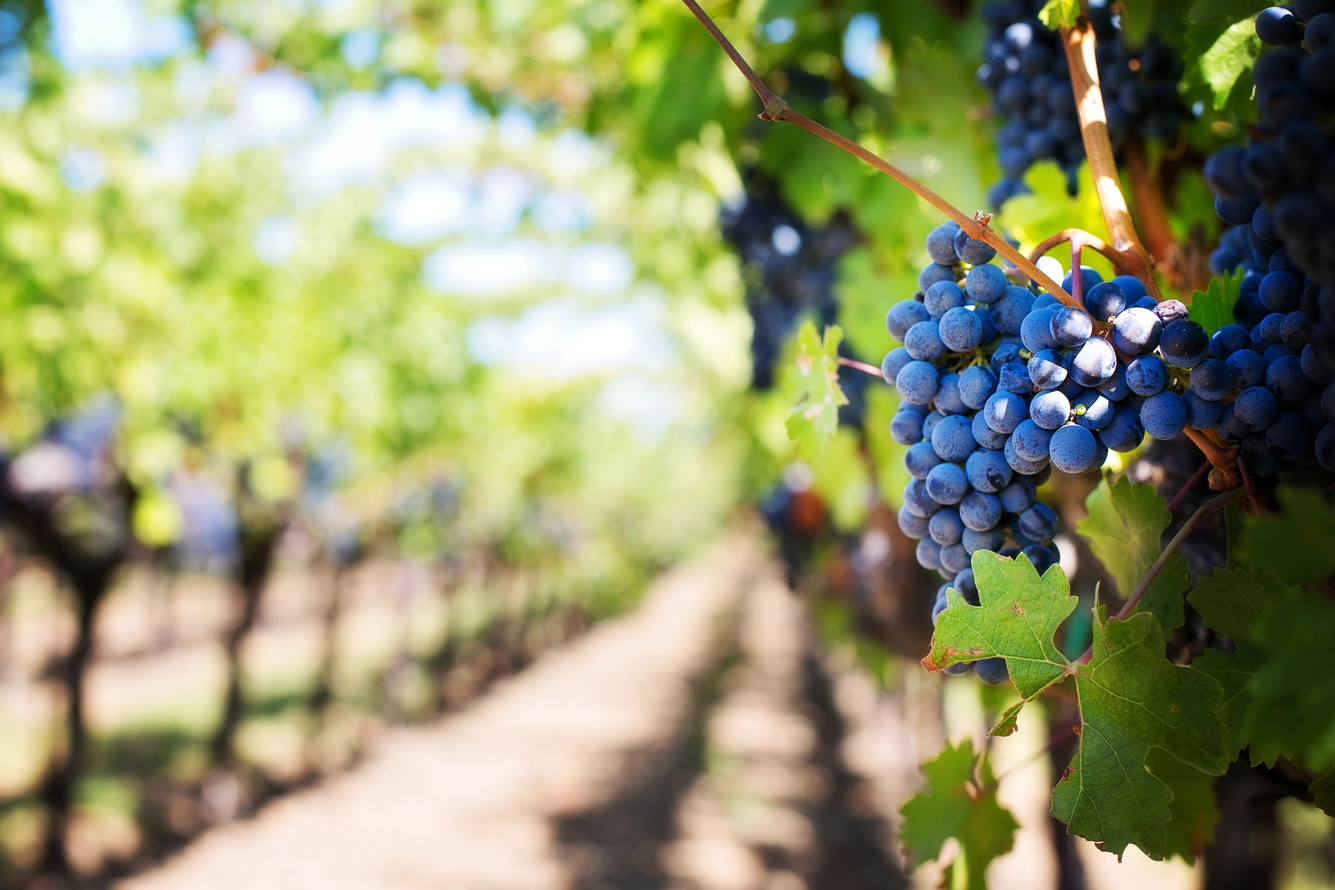
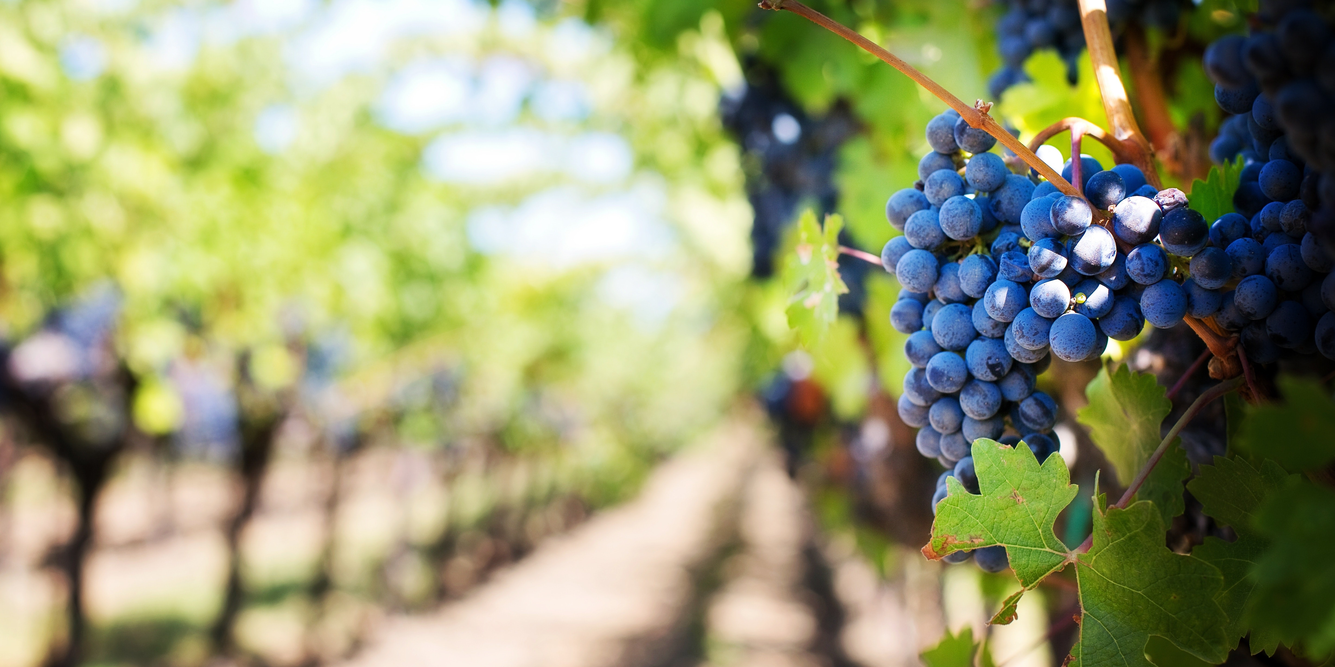
Home page content and some styling

diff --git a/index.html b/index.html
@@ -47,7 +47,7 @@
     <main class="container-fluid">
         <section id="hero-outer">
             <div class="hero-image">
-                <img id="hero-image" src="assets/images/arty_red_grape.jpg">
+                <img id="hero-image" src="assets/images/vines_and_views.jpg">
                 <div id="cover-text">
                     <h2>Welcome to Rupera Vineyard</h2>
                     <h3>Home of Wales' award-winning wines</h3>
@@ -61,11 +61,151 @@
                 </div>
             </div>
         </section>
-        <section id="section-2">
-            </div>This section will show options of what to do at Rupera Vineyard.
+        <section id="things-to-enjoy">
+            <h3> Things to Enjoy</h3>
+            <div id="things-to-enjoy-carousel" class="carousel slide" data-ride="carousel">
+                <div class="carousel-inner">
+                    <div class="carousel-item active">
+                        <img src="assets/images/walk_the_vines.jpg" class="d-block w-100"
+                            alt="woman walking through vines">
+                        <div class="carousel-caption d-none d-md-block">
+                            <h5>Walk through the vines</h5>
+                            <p>Some representative placeholder content for the first slide.</p>
+                        </div>
+                    </div>
+                    <div class="carousel-item">
+                        <img src="assets/images/wine_tasting1.jpg" class="d-block w-100" alt="wine tasting">
+                        <div class="carousel-caption d-none d-md-block">
+                            <h5>Taste our wines</h5>
+                            <p>Some representative placeholder content for the second slide.</p>
+                        </div>
+                    </div>
+                    <div class="carousel-item">
+                        <img src="assets/images/working_in_cafe.jpg" class="d-block w-100"
+                            alt="people working in a cafe">
+                        <div class="carousel-caption d-none d-md-block">
+                            <h5>A beautiful environment to work</h5>
+                            <p>Some representative placeholder content for the third slide.</p>
+                        </div>
+                    </div>
+                    <div class="carousel-item">
+                        <img src="assets/images/menu_and_food.jpg" class="d-block w-100" alt="menu and food">
+                        <div class="carousel-caption d-none d-md-block">
+                            <h5>Join us for lunch</h5>
+                            <p>Some representative placeholder content for the third slide.</p>
+                        </div>
+                    </div>
+                    <div class="carousel-item">
+                        <img src="assets/images/coffee.jpg" class="d-block w-100" alt="coffee">
+                        <div class="carousel-caption d-none d-md-block">
+                            <h5>Relax with a coffee</h5>
+                            <p>Some representative placeholder content for the third slide.</p>
+                        </div>
+                    </div>
+                    <div class="carousel-item">
+                        <img src="assets/images/wildflower_butterfly.jpg" class="d-block w-100"
+                            alt="wildflowers and butterfly">
+                        <div class="carousel-caption d-none d-md-block">
+                            <h5>Explore our magical meadows</h5>
+                            <p>Some representative placeholder content for the third slide.</p>
+                        </div>
+                    </div>
+                    <div class="carousel-item">
+                        <img src="assets/images/sing_song.jpg" class="d-block w-100" alt="group singing">
+                        <div class="carousel-caption d-none d-md-block">
+                            <h5>Enjoy our evening events</h5>
+                            <p>Some representative placeholder content for the third slide.</p>
+                        </div>
+                    </div>
+                </div>
+                <button class="carousel-control-prev left" type="button" data-bs-target="things-to-enjoy-carousel"
+                    data-bs-slide="prev">
+                    <span class="carousel-control-prev-icon" aria-hidden="true"></span>
+                    <span class="visually-hidden">Previous</span>
+                </button>
+                <button class="carousel-control-next right" type="button" data-bs-target="things-to-enjoy-carousel"
+                    data-bs-slide="next">
+                    <span class="carousel-control-next-icon" aria-hidden="true"></span>
+                    <span class="visually-hidden">Next</span>
+                </button>
+            </div>
+            <div id="things-to-enjoy-p">
+                <p>
+                    There are plenty of reasons to visit us at Rupera Vineyard.
+                    <br>
+                    Whether you fancy a <strong>scenic stroll</strong> through our vines and
+                    meadows, a <strong>delicious lunch </strong>that hits the spot (in a beautiful spot),
+                    or a <strong>tour and taste</strong> of our wines to learn about the fastest growing
+                    agricultural industry in the UK, we'll make sure you get everything you hoped from your visit, and
+                    more.
+                </p>
+                <p> If you'd like to book a table, a tour or for one of our events, please get in touch!</p>
+                <button type="button" class="btn btn-outline-warning nav-menu-item">Contact Us</button>
+            </div>
         </section>
-        <section id="section-3">
-            This section will show upcoming events
+        <section id="upcoming-events-summary">
+            <h3>Upcoming Events</h3>
+            <br>
+            <div class="gallery-container text-center">
+                <div class="row align-items-center upcoming-events-summary-gallery" id="live-band-and-pizza">
+                    <a target="_blank" href="assets/images/pizza_party3.jpg" class="col-4">
+                        <img src="assets/images/pizza_party3.jpg" alt="Forest" class="image-left">
+                    </a>
+                    <span class="col-4 caption-events-summary" id="live-band-and-pizza-caption">
+                        <h5>Live Band and pizza</h5>
+                        <p>
+                            Enjoy hearing talented musicians from the local area? Then friday nights are the time to
+                            visit. If that
+                            isn't enough, our stone pizza oven will be hot and ready to make you a dreamy pizza of your
+                            craetion.
+                            Thirsty? Our cafe turns into a cosy bar at night to supply you with your beverage of choice.
+                        </p>
+                    </span>
+                    <a target="_blank" href="assets/images/sing_song.jpg" class="col-4">
+                        <img src="assets/images/sing_song.jpg" alt="Northern Lights" class="image-right">
+                    </a>
+                </div>
+                <br>
+                <div class="row align-items-center upcoming-events-summary-gallery" id="taco-tuesday">
+                    <a target="_blank" href="assets/images/taco_tuesdays1_crop.jpg" class="col-4">
+                        <img src="assets/images/taco_tuesdays1_crop.jpg" alt="taco and cocktail">
+                    </a>
+                    <span class="col-4 caption-events-summary" id="taco-caption">
+                        <h5>Taco Tuesdays</h5>
+                        <p>
+                            Our mexican themed evenings are held every tuesday and are always popular. We have a local
+                            mariachi band that plays
+                            for us every week while you get the chance to induldge on tacos and nachos. The cafe
+                            transforms to
+                            a Margharita and Mexican Mule making machine, so you always have a delicious mexican
+                            cocktail to wash
+                            down the tacos.
+                        </p>
+                    </span>
+                    <a target="_blank" href="assets/images/mariachi_band.jpg" class="col-4">
+                        <img src="assets/images/mariachi_band.jpg" alt="Cinque Terre" class="image-right">
+                    </a>
+                </div>
+                <br>
+                <div class="row align-items-center upcoming-events-summary-gallery" id="cheese-and-wine">
+                    <a target="_blank" href="assets/images/cheese_wine2.jpg" class="col-4">
+                        <img src="assets/images/cheese_wine2.jpg" alt="Northern Lights" class="image-right">
+                    </a><span class="col-4 caption-events-summary" id="cheese-and-wine-caption">
+                        <h5>Cheese and Wine Evening</h5>
+                        <p>
+                            Celebrate local wines and those from a little further afield with the perfect
+                            accompaniment... cheese!
+                            We have a fantastic selection of cheese, some local, which are specially chosen to pair with
+                            the
+                            evening's wines. A relaxing and intimate evening to share with other wine and cheese
+                            enthusiasts.
+                        </p>
+                    </span>
+                    <a target="_blank" href="assets/images/wine_tasting1.jpg" class="col-4">
+                        <img src="assets/images/wine_tasting1.jpg" alt="Northern Lights" class="image-left">
+                    </a>
+                </div>
+            </div>
         </section>
     </main>
     </main>

diff --git a/assets/css/style.css b/assets/css/style.css
@@ -7,6 +7,14 @@ body {
     font-family: "Cormorant Garamond";
 }
 
+strong {
+    color: rgb(229, 229, 229);
+}
+
+em {
+    color: rgb(229, 229, 229);
+}
+
 /*---------------------------------------------------------------------------- HEADER */
 /*-------------------------------------------------------navbar */
 
@@ -140,7 +148,7 @@ footer img:hover {
 /*---------------------------------------------------------------------------- MAIN-home*/
 /*-------------------------------------------------------hero section
 
-Styling is adapted from Code Institutes 'Love Running' project */
+Hero image styling is adapted from Code Institutes 'Love Running' project */
 
 
 /*--------------------------------------hero image */
@@ -153,12 +161,11 @@ Styling is adapted from Code Institutes 'Love Running' project */
     animation-fill-mode: forwards;
 }
 
+
 #hero-outer {
     width: 100%;
-    height: 800px;
     overflow: hidden;
     position: relative;
-
 }
 
 @keyframes hero-zoom {
@@ -167,14 +174,14 @@ Styling is adapted from Code Institutes 'Love Running' project */
     }
 
     to {
-        transform: scale(1.1)
+        transform: scale(1.09)
     }
 }
 
 /*--------------------------------------cover text */
 #cover-text h2 {
     color: rgb(229, 229, 229);
-    font-size: 300%;
+    font-size: 3.2em;
     font-weight: 600;
 }
 
@@ -186,13 +193,10 @@ Styling is adapted from Code Institutes 'Love Running' project */
 
 #cover-text p {
     color: #e3b4d9;
-    font-size: 110%;
+    font-size: 1.1em;
     font-style: italic;
 }
 
-#cover-text p strong {
-    color: rgb(229, 229, 229);
-}
 
 #cover-text {
     font-family: "Cormorant Garamond";
@@ -204,15 +208,68 @@ Styling is adapted from Code Institutes 'Love Running' project */
     position: absolute;
     background-color: #58304d;
     opacity: 60%;
-    top: 30%;
-    left: 120px;
+    top: 10%;
+    right: 120px;
 
 }
 
 /*-------------------------------------------------------Things to Enjoy Section */
 
+#things-to-enjoy {
+    padding: 50px 50px 10px 50px;
+    background-color: rgb(34, 34, 34);
+    color: rgb(229, 229, 229);
+    font-family: "Cormorant Garamond";
+    text-align: center;
+}
 
+#things-to-enjoy-carousel {
+    background: blue;
+    width: 60%;
+    margin: 30px 20%;
+    padding: 0
+}
 
+#things-to-enjoy h3 {
+    font-size: 3em
+}
+
+#things-to-enjoy-p {
+    padding: 50px 18%;
+    color: #e3b4d9;
+    font-size: 1.1em;
+}
+
+.carousel {
+    width: 60%;
+    overflow: hidden;
+    padding: 50px;
+
+}
+
+.carousel-caption {
+    background-color: #58304d;
+    opacity: 80%;
+}
+
+/*-------------------------------------------------------Upcoming Events Section */
+
+#upcoming-events-summary {
+    background-color: #58304d;
+    text-align: center;
+    vertical-align: middle;
+    padding: 50px 0 10px 0;
+    color: rgb(229, 229, 229);
+    font-family: "Cormorant Garamond";
+}
+
+#upcoming-events-summary h3 {
+    font-size: 3em
+}
+
+.gallery-container img {
+    height: 200px;
+}
 
 /*---------------------------------------------------------------------------- BREAKPOINTS */
 

diff --git a/README.md b/README.md
@@ -37,11 +37,19 @@
  What will the website actually look like? Colours/typography/images/animations/transitions
 
 
+## Bugs
+### Carousel
+Not shuffling between images 
+
+### Resposive columns 
+Section 3 on home page not responsive
+
+## To do:
+- make all pages responsive
 
  ## Testing Process
 
- ### While creating the Website
- - tested css sheet by setting body background to brown. **Attach screenshot**
+ 
 
 ## Requirements
  **read-me must :**
@@ -67,3 +75,28 @@ white_grapes.jpg https://unsplash.com/photos/V_X0uBi_8eQ?utm_source=unsplash&utm
 vines_and_views.jpg Photo by David: https://www.pexels.com/photo/pathway-under-clouds-and-blue-sky-1277181/
 arty_red_grape.jpg  Photo by Pixabay: https://www.pexels.com/photo/grapes-vineyard-vine-purple-grapes-39511/
 wildflower_butterfly Photo by Andrew Patrick: https://www.pexels.com/photo/butterflies-on-flowers-in-meadow-13408190/
+iced_coffee.jpg Photo by Ánh Đặng: https://www.pexels.com/photo/iced-coffees-on-a-small-wooden-table-16446300/
+cafe_window Photo by Ksenia Chernaya: https://www.pexels.com/photo/interior-of-modern-cafe-with-big-window-4450335/
+menu_and_food Photo by ROMAN ODINTSOV: https://www.pexels.com/photo/vegetable-salad-served-on-table-with-beef-steak-in-restaurant-4551832/
+healthy_breakfast Photo by ROMAN ODINTSOV: https://www.pexels.com/photo/delicious-dessert-with-fruits-and-juice-on-table-4553031/
+working_in_cafe Photo by Tim Douglas : https://www.pexels.com/photo/colleagues-working-on-netbook-in-cafe-6205491/
+cafe_friends Photo by Sam Lion: https://www.pexels.com/photo/cheerful-asian-friends-resting-in-cafe-5709523/
+cakes Photo by flat hito: https://www.pexels.com/photo/bake-pastry-on-short-stem-cake-tray-863006/
+coffee Photo by Burst: https://www.pexels.com/photo/beverage-breakfast-cafe-caffeine-374147/
+wine_tasting1 Photo by Pavel Danilyuk: https://www.pexels.com/photo/woman-in-black-tank-top-holding-bottle-pouring-wine-on-clear-wine-glass-8775173/
+wine_tasting2 Photo by Pavel Danilyuk: https://www.pexels.com/photo/person-holding-clear-wine-glass-8775458/
+harvest Photo by Czapp Árpád: https://www.pexels.com/photo/woman-carrying-black-crate-10188044/
+walk_the_vines Photo by Jacob  Riesel : https://www.pexels.com/photo/woman-at-a-vineyard-14904749/
+meriachi_band Photo by Mikhail Nilov: https://www.pexels.com/photo/men-in-black-and-white-suit-playing-a-guitar-8919080/
+sing_song Photo by Ronê Ferreira: https://www.pexels.com/photo/people-gathering-in-room-2735037/
+live_music Photo by Wendy Wei: https://www.pexels.com/photo/photo-of-band-performing-on-stage-2724670/
+pizza_party1 Photo by Kindel Media: https://www.pexels.com/photo/woman-holding-pizza-slice-7148991/
+pizza_party2 Photo by Kindel Media: https://www.pexels.com/photo/woman-eating-pizza-7148990/
+pizza_party3 Photo by Kindel Media: https://www.pexels.com/photo/three-women-eating-pizza-7148992/
+cheese_wine1 Photo by Pixabay: https://www.pexels.com/photo/close-up-of-wine-and-fruits-248413/
+cheese_wine2 Photo by Cup of  Couple: https://www.pexels.com/photo/a-wine-bottle-near-the-wooden-plate-with-cheese-and-grapes-8473177/
+taco_tuesdays1 Photo by ROMAN ODINTSOV: https://www.pexels.com/photo/tacos-on-a-cutting-board-juice-in-glass-and-spices-4958641/
+taco_tuesdays2 Photo by ROMAN ODINTSOV: https://www.pexels.com/photo/mexican-tacos-with-salsa-4958731/
+mariachi_band2 Photo by Mikhail Nilov: https://www.pexels.com/photo/man-and-woman-playing-musical-instruments-8919727/
+taco_tuesday3 Photo by Anna Tarazevich: https://www.pexels.com/photo/smiling-woman-playing-the-ukulele-8479706/
+mariachi_band3 Photo by Mikhail Nilov: https://www.pexels.com/photo/a-mariachi-band-playing-at-a-bar-8919751/
